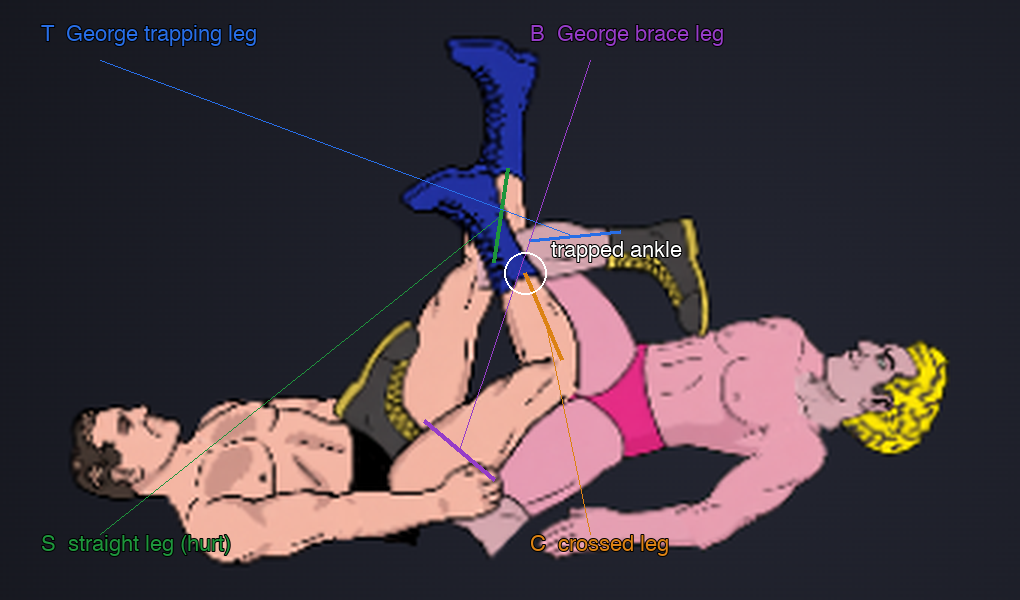
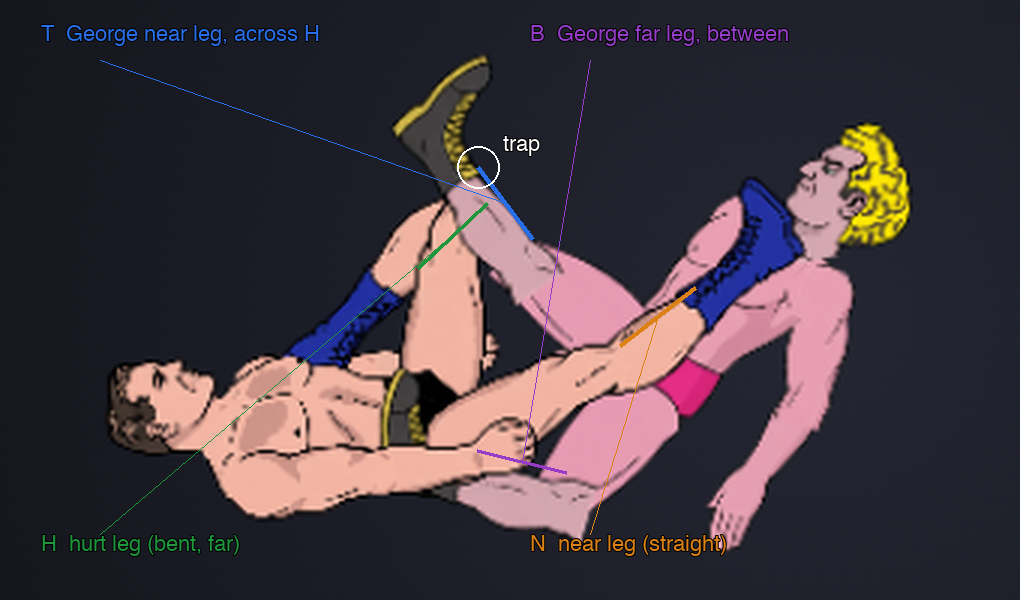
T1.2/T2.4 v2: tableau rebuilt on Derek's choreography; new G1 stills
George sits up ~42 deg propped on his arms behind him, stepped between the
receiver's legs; his near leg lands across the receiver's bent far leg (the hurt
leg, rLeg). New critic contacts and lock chain; ledger v2 records the five key
steps for Stage 3. Trap passes on Procreate Lou facing right only (2.1%);
left-facing and roster fail and are reported, tol not widened.

diff --git a/tests/figureFourTableau.test.js b/tests/figureFourTableau.test.js
@@ -39,7 +39,7 @@ test('the critic spec names the ledger contacts by channel with kind and tol', (
     const { contacts } = specFor('figureFourTableau');
     assert.deepEqual(contacts.map(c => c.kind), ['trap', 'brace']);
     assert.ok(contacts.every(c => Number.isFinite(c.tol) && /^[lr]/.test(c.source)));
-    assert.match(contacts[0].target, /^seg:lKnee-lAnkle$/);
+    assert.match(contacts[0].target, /^seg:rKnee-rAnkle$/);
 });
 
 test('the tableau is a draft only: no clip is exported to src/', () => {

diff --git a/tools/move-critic/label_tableau.py b/tools/move-critic/label_tableau.py
@@ -39,10 +39,10 @@ def leg(role, channel):
     return j[side + 'Knee'], j[side + 'Ankle']
 
 LEGS = [
-    ('defender', 'r', 'S  straight leg (hurt)', (30, 150, 60)),
-    ('defender', 'l', 'C  crossed leg', (220, 130, 20)),
-    ('attacker', 'l', 'T  George trapping leg', (40, 110, 230)),
-    ('attacker', 'r', 'B  George brace leg', (150, 60, 200)),
+    ('defender', 'r', 'H  hurt leg (bent, far)', (30, 150, 60)),
+    ('defender', 'l', 'N  near leg (straight)', (220, 130, 20)),
+    ('attacker', 'l', 'T  George near leg, across H', (40, 110, 230)),
+    ('attacker', 'r', 'B  George far leg, between', (150, 60, 200)),
 ]
 
 im = Image.open(still).convert('RGB').crop(crop)
@@ -70,11 +70,11 @@ for i, (role, ch, text, colour) in enumerate(LEGS):
     tx = (0.04 if ch == ('l' if up else 'r') else 0.52) * im.width
     d.line([mid, (tx + 20 * scale, ty + (12 * scale if up else 0))], fill=colour, width=max(1, scale // 2))
     d.text((tx, ty), text, fill=colour, font=font, stroke_width=1, stroke_fill=(0, 0, 0))
-# the trapped ankle: the receiver's crossed ankle
-_, c_ankle = leg('defender', 'l')
+# the trap: George's near ankle where it lands across the hurt leg
+_, c_ankle = leg('attacker', 'l')
 x, y = at(c_ankle)
 r = 7 * scale
 d.ellipse([x - r, y - r, x + r, y + r], outline=(255, 255, 255), width=max(2, scale - 1))
-d.text((x + r + 4, y - r - 4 * scale), 'trapped ankle', fill=(255, 255, 255), font=font, stroke_width=1, stroke_fill=(0, 0, 0))
+d.text((x + r + 4, y - r - 4 * scale), 'trap', fill=(255, 255, 255), font=font, stroke_width=1, stroke_fill=(0, 0, 0))
 im.save(out, optimize=True)
 print(out, im.size)

diff --git a/research/animation/figure-four-tableau/LEDGER.md b/research/animation/figure-four-tableau/LEDGER.md
@@ -35,7 +35,7 @@ left has lLeg on the **far** slot; the roster rigs, like Procreate, keep it near
 left to slot depth: it must be a declared chain. (Two rigs flip the slot with
 facing, three don't, so a chain written by slot would be wrong on some cast.)
 
-## The four legs
+## The four legs — v1, SUPERSEDED by v2 below
 
 | Name | Who | Channel | Role in the hold |
 |---|---|---|---|
@@ -57,7 +57,7 @@ and (589, 432) and the receiver's thighs run from his hips (614, 548) to his kne
 sit past the receiver's ankles (476–517). Nothing touches; that is the audit's
 finding 1, and it is what T1.2 has to fix with staging, not by bending limbs.
 
-## Contacts (critic spec, after T2.2)
+## Contacts (critic spec, after T2.2) — v1, SUPERSEDED by v2 below
 
 `tol` is a fraction of the source actor's height. Windows are clip seconds.
 
@@ -71,7 +71,7 @@ finding 1, and it is what T1.2 has to fix with staging, not by bending limbs.
 
 Kinds are labels for reports only. Nothing here is a runtime constraint.
 
-## Crossings (back → front chains, by beat)
+## Crossings (back → front chains, by beat) — v1, SUPERSEDED by v2 below
 
 These become the clip's `layers` (D1). Limb names are anatomical; `attacker`/`defender`
 are roles, so each chain holds in both slots and facings.
@@ -91,7 +91,7 @@ from its `from` to just before the next, so the 1.60 and 3.40 changes are cuts, 
 fades. If the cut shows as a pop in Stage 3, move the cut to a beat where the two limbs
 don't overlap on screen.
 
-## Hurt-leg link
+## Hurt-leg link (still valid in v2: `rLeg`)
 
 `figureFour.sell.limb = 'rLeg'` in `src/moves/registry.js` (S, the leg George grabbed).
 It is anatomical, so it names the same limb whichever way the receiver faces.
@@ -106,7 +106,7 @@ still to be measured.
 - The two George rigs' lLeg depth order differs by facing, so Stage 3 has to
   re-measure each chain on each rig and in both slots.
 
-## Results: locked tableau draft (T1.2, T2.4)
+## Results: locked tableau draft (T1.2, T2.4) — v1, SUPERSEDED by v2 below
 
 2026-10-22 · `tools/move-editor/drafts/figurefour-tableau.json`, generated by
 `author_figurefour_tableau.mjs` and staged by `figurefour_tableau.constraints.mjs`.
@@ -150,3 +150,67 @@ stills 1-4, for Derek to overrule:
 
 The stop rule (D2) was **not** invoked: contacts hold and joints are valid on the baseline
 cast, so I have not shown that the trap can't be made to read. Whether it can with this art is the G1 question.
+
+---
+
+# v2 (2026-10-23): Derek's choreography
+
+Derek rejected v1 at G1 ("I don't think I can" point to the legs). He gave the sequence
+for the hold; v2 is built on it. Same decision 1: the leg George grabs is the hurt leg.
+
+> George grabs the opponent's legs and steps between them, then falls backward and
+> bends the opponent's far leg southward. While falling back, his near leg raises to land
+> above the opponent's back (far) leg. Then he sits up at about 45 degrees with his arms
+> behind him to support his body. Four or five key steps.
+
+This is the Stage 3 key-step list (not authored yet; the tableau is only its last step):
+1. Grab both legs at the receiver's feet. 2. Step between the legs. 3. Fall backward,
+folding the receiver's far leg (shin southward). 4. Near leg raises and lands across the
+far leg. 5. Sit up to ~45 degrees, hands behind him on the mat (the tableau).
+
+## v2 legs (by channel)
+
+| Name | Who | Channel | Role |
+|---|---|---|---|
+| **H**, hurt leg | receiver | `rLeg` (his far leg on Procreate and the roster rigs) | Bent, shin pointing south. Grabbed at purchase. `sell.limb` stays `rLeg`. |
+| **N**, near leg | receiver | `lLeg` | Straight, straddling George; drawn over George's lap. |
+| **T**, trapping leg | George | `lLeg` | Near leg; raised, its ankle lands across H's shin. |
+| **B**, bracing leg | George | `rLeg` | Far leg, stepped between the receiver's legs. |
+
+## v2 contacts
+
+| Kind | Source → target | Window (tableau clock) | `tol` |
+|---|---|---|---|
+| purchase | attacker `lWrist` → defender `rAnkle` (H) | step 1, not in the tableau | 0.06 |
+| trap | attacker `lAnkle` (T) → `seg:rKnee-rAnkle` of defender (H's shin) | 0–1.0 | 0.05 |
+| brace | attacker `rAnkle` (B) → `seg:lHip-lKnee` of defender (N's thigh) | 0–1.0 | 0.08 |
+| support | George's hands on the mat behind him | 0–1.0 | floor + eye |
+
+## v2 crossing chain (lock), back → front
+
+defender `rLeg` (H) < attacker `torso` < attacker `rLeg` (B) < attacker `lLeg` (T) < defender `lLeg` (N).
+He sits between the receiver's legs: the far leg H is behind him, the near leg N crosses in
+front of his lap. Earlier windows (grab, step, fall) are for Stage 3.
+
+## v2 results (tableau draft, searched then staged)
+
+George sits at tilt -0.73 (about 42 degrees), arms back (lArm -0.09, rArm -0.51). The
+receiver's H knee is 2.50, one hundredth under the knee limit. All knees and elbows are
+inside `JOINT_LIMITS` on Procreate and the roster pair; no reversals.
+
+| Still | Cast | Facing | Trap (5%) | Brace (8%) |
+|---|---|---|---|---|
+| 1 | George / Procreate Lou | right | 2.1% PASS | 0.0% PASS |
+| 2 | George / Procreate Lou | left | **9.6% FAIL** | **8.9% FAIL** |
+| 3 | roster pair | right | **23.3% FAIL** | 4.1% PASS |
+| 4 | roster pair | left | **23.9% FAIL** | 4.2% PASS |
+
+`tol` not widened, no per-rig retune. Floor: George 0.0%; the receiver's near upper arm
+paints 19.0% below the mat line on Procreate Lou, which equals the live clip's 18.7% on the
+same part, so that is the lying-arm art.
+
+My own look (Derek to overrule; I am not claiming it reads): H bent with the shin down
+and George's near leg rising across it are visible on still 1, and George sits up
+propped. B is mostly hidden behind George's lap and N, so George's "stepped between"
+leg is the hardest part to find without the label. The left-facing and roster stills
+fail the trap contact, so the legs are visibly off on those.
